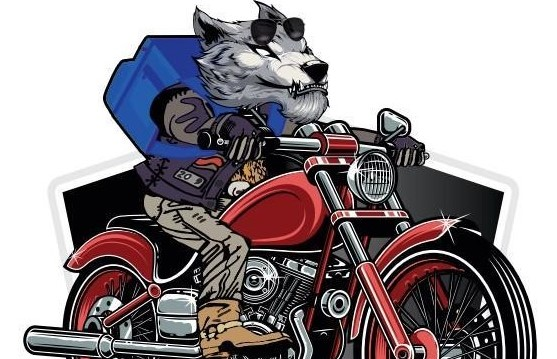
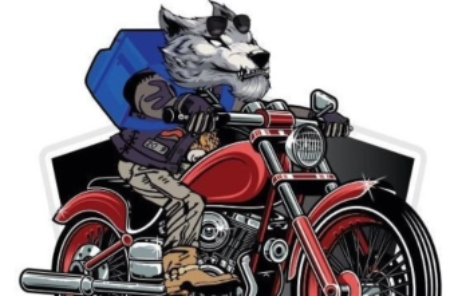
casi acanbando

diff --git a/index.html b/index.html
@@ -1,13 +1,13 @@
 <!DOCTYPE html>
 <html lang="en">
 <head>
-    <title>Wolf courier</title>
+    <title>Swift Wolf courier</title>
     <link rel="stylesheet" href="css/index.css">
 </head>
 <body>
     <header>
         <div class="container">
-            <p class="logo">Wolf courier</p>
+            <p class="logo">Swift Wolf courier</p>
             <nav>
                 <a href="#somos-proya">Quienes Somos</a>
                 <a href="#nuestros-programas">Nuestros Servicios</a>
@@ -26,10 +26,10 @@
         <div class="container">
             <div class="img-container"></div>
             <div class="texto">
-                <h5>SOBRE WOLF COURIER</h5>
+                <h5>SOBRE SWIFT WOLF COURIER</h5>
                 <h2>Hacemos envio a todo Lima y callao</h2>
                 <div class="separador"></div>
-                <p>Lorem ipsum dolor sit amet consectetur adipisicing elit. Suscipit veritatis a autem sed dignissimos commodi, voluptas incidunt voluptatibus cum, quia neque nulla consequatur laborum accusamus, perspiciatis odio nemo minus vel!</p>
+                <p>Nos dedicamos a garantizar que cada pedido llegue a tiempo y en perfectas condiciones, brindando un servicio confiable y profesional. Nuestro equipo se esfuerza por ofrecer la mejor experiencia de entrega, cuidando cada detalle para asegurar la satisfacción de nuestros clientes.</p>
             </div>
         </div>
     </section>
@@ -38,19 +38,19 @@
             <h2>NUESTROS SERVICIOS</h2>
             <div class="programas">
                 <div class="carta">
-                    <h3>Tarifa plana</h3>
-                    <p>Lorem ipsum dolor sit amet consectetur adipisicing elit. Nesciunt vero corporis incidunt saepe qui commodi quasi neque veniam quam, aspernatur est beatae maxime animi sed reiciendis mollitia ducimus veritatis repellendus?</p>
-                    <button>+ Info</button>
+                    <h3></h3>
+                    <p>Se cobra un precio fijo por el envío, sin importar el peso o destino del paquete dentro de un área específica.</p>
+                    
                 </div>
                 <div class="carta">
-                    <h3>Tarifa media</h3>
-                    <p>Lorem ipsum dolor sit amet consectetur adipisicing elit. Nesciunt vero corporis incidunt saepe qui commodi quasi neque veniam quam, aspernatur est beatae maxime animi sed reiciendis mollitia ducimus veritatis repellendus?</p>
-                    <button>+ Info</button>
+                    <h3></h3>
+                    <p>Ofrece un equilibrio entre precio y tiempo de entrega. Generalmente es más rápida que la tarifa estándar.</p>
+                   
                 </div>
                 <div class="carta">
-                    <h3>Express</h3>
-                    <p>Lorem ipsum dolor sit amet consectetur adipisicing elit. Nesciunt vero corporis incidunt saepe qui commodi quasi neque veniam quam, aspernatur est beatae maxime animi sed reiciendis mollitia ducimus veritatis repellendus?</p>
-                    <button>+ Info</button>
+                    <h3></h3>
+                    <p>Envíos rápidos, con entrega en el mismo día o al día siguiente, a un costo mayor. Es para quienes quieren al isntante.</p>
+                    
                 </div>  
             </div>
         </div>
@@ -197,7 +197,7 @@
             
             <h3>CONTACTENOS</h2>
             <h4>Correo:</h4>
-            <p>WolfCourier@gmail.com</p>
+            <p>SwiftWolfCourier@gmail.com</p>
             <h4>Celular:</h4>
             <p>929785155</p>
 
@@ -217,7 +217,7 @@
 
     <footer>
         <div class="container">
-            <p>&copy; WolfCourier 2024</p>
+            <p>&copy; SwiftWolfCourier 2024</p>
         </div>
     </footer>
 </body>

diff --git a/precio.html b/precio.html
@@ -137,24 +137,51 @@
             </tr>
             <tr class="district-group">
                 <td>
-                    Miraflores<br>
-                    La Molina<br>
-                    Barranco
+                    SMP<br>
+                    COMAS<br>
+                    INDEPENDENCIA <br>
+                    LOS OLIVOS <br>
+                    CERCADO DE LIMA <br>
+                    RIMAC <br>
+                    BREÑA <br>
+                    LINCE <br>
+                    JESUS MARIA <br>
+                    LA VICTORIA <br>
+                    PUEBLO LIBRE <br>
+                    SAN ISIDRO <br>
+                    CALLAO <br>
+                    BARRANCO <br>
                 </td>
                 <td>
-                    San Isidro<br>
-                    San Miguel<br>
-                    Magdalena
+                    SJM <br>
+                    CHORILLOS <br>
+                    MIRAFLORES <br>
+                    SAN BORJA <br>
+                    AGUSTINO <br>
+                    SAN LUIS <br>
+                    SALAMANCA <br>
+                    SJL <br>
+                    SANTA ANITA <br>
+                    SURQUILLO <br>
+                    MAGDALENA <br>
+                    SURCO <br>
+                    MOLINA <br>
+
                 </td>
                 <td>
-                    Surco<br>
-                    Pueblo Libre<br>
-                    Chorrillos
+                    VENTANILLA <br>
+                    CARABAYLLO <br>
+                    VES <br>
+                    ATE <br>
+                    PUENTE PIEDRA <br>
                 </td>
                 <td>
-                    San Borja<br>
-                    Lince<br>
-                    <div>Tarifa Wolf Especial:<br>Hacer consulta</div>
+                    ANCON <br>
+                    VMT <br>
+                    ANEXO 8 SJL <br>
+                    SANTA CLARA <br>
+                    HUAYCAN <br>
+                    <div>Tarifa Shift Wolf Especial:<br>Hacer consulta</div>
                 </td>
             </tr>
         </table>

diff --git a/css/index.css b/css/index.css
@@ -85,15 +85,17 @@ header a:hover{
     text-align: center;
     flex-direction: column;
     height: 120vh;
+    
     background-image: linear-gradient(
         0deg,
         rgba(0, 0, 0, 0.5),
         rgba(0, 0, 0, 0.5)
     )
-    ,url("../imagenes/moto.jpeg");
+    ,url("../imagenes/logo.jpg");
     background-repeat: no-repeat;
-    background-size: cover;
+    background-size: 100% 100% 100% 100%;
     background-position: center center;
+    
 }
 
 #hero h1{
@@ -155,7 +157,7 @@ header a:hover{
         rgba(221, 216, 216, 0.5),
         rgba(221, 212, 212, 0.5)
     )
-    ,url("media/front-end.jpg");
+    ,url("../imagenes/7.png");
 
 }
 
@@ -165,7 +167,7 @@ header a:hover{
         rgba(221, 216, 216, 0.5),
         rgba(221, 212, 212, 0.5)
     )
-    ,url("media/full-stack.jpg");
+    ,url("../imagenes/6.png");
 }
 
 .carta:nth-child(3){
@@ -174,7 +176,7 @@ header a:hover{
         rgba(221, 216, 216, 0.5),
         rgba(221, 212, 212, 0.5)
     )
-    ,url("media/python.jpg");
+    ,url("../imagenes/5.png");
 
 }
 
@@ -312,6 +314,7 @@ footer .container{
 
     #nuestros-programas p{
         display: block;
+        padding-top: 70PX;
         margin-bottom: 30px;
     }
 
@@ -340,7 +343,7 @@ footer .container{
             rgba(0,0,0,0.5),
             rgba(0,0,0,0.5)
         )
-        ,url("../imagenes/motorizado.jpeg");
+        ,url("../imagenes/7.png");
 
     }
 
@@ -350,7 +353,7 @@ footer .container{
             rgba(0,0,0,0.5),
             rgba(0,0,0,0.5)
         )
-        ,url("../imagenes/motorizado.jpeg");
+        ,url("../imagenes/6.png");
     }
 
     .carta:nth-child(3){
@@ -359,7 +362,7 @@ footer .container{
             rgba(0,0,0,0.5),
             rgba(0,0,0,0.5)
         )
-        ,url("../imagenes/motorizado.jpeg");
+        ,url("../imagenes/5.png");
 
     }
 

diff --git a/formulario1.html b/formulario1.html
@@ -87,7 +87,7 @@
         rgba(0, 0, 0, 0.5),
         rgba(0, 0, 0, 0.5)
     )
-    ,url("imagenes/captura.jpg");
+    ,url("imagenes/logo.jpg");
             padding: 20px;
             border-radius: 10px;
             box-shadow: 0 0 10px rgba(0, 0, 0, 0.1);
@@ -96,6 +96,7 @@
             max-height: 800px;
             width: 510px;
             height: 300px;
+            background-size: 100% 100% 100%;
         }
         .modal h2 {
             margin: 0;
